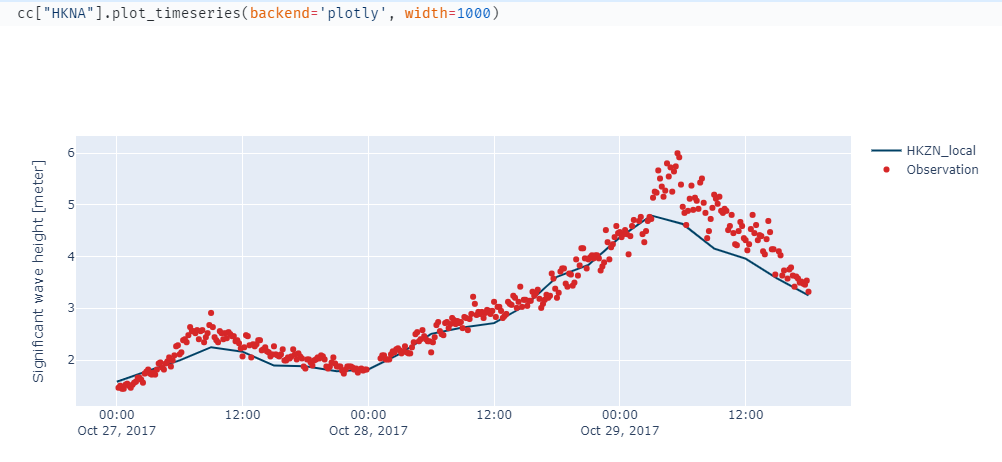
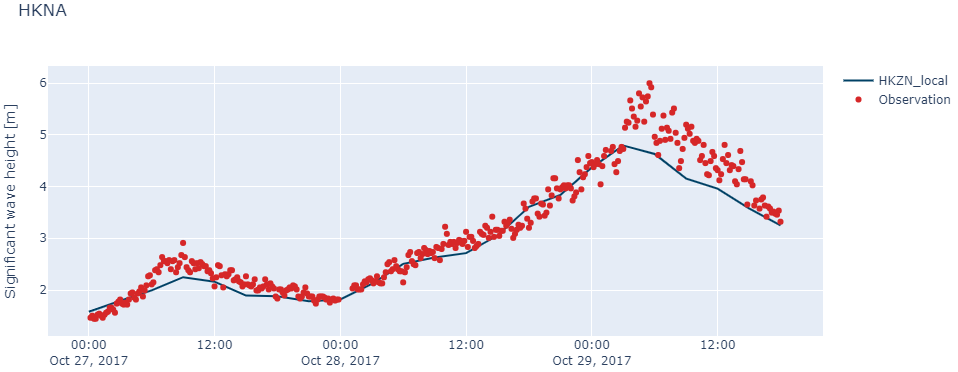
improved readme

diff --git a/README.md b/README.md
@@ -53,29 +53,51 @@ See examples of use in these notebooks
 2. Define **Observations**
 3. **Associate** observations with ModelResults
 4. **Extract** ModelResults at observation positions
-5. Do plotting, statistics, reporting using the **ComparerCollection**
+5. Do plotting, statistics, reporting using a **Comparer**
 
 
 ## Usage
 
+First, define model results and observations:
+
 ```python
 >>> from fmskill.model import ModelResult
->>> from fmskill.observation import PointObservation
->>> mr = ModelResult("Oresund2D.dfsu")
->>> klagshamn = PointObservation("smhi_2095_klagshamn.dfs0", item=0, x=366844, y=6154291, name="Klagshamn")
->>> drogden = PointObservation("dmi_30357_Drogden_Fyr.dfs0", item=0, x=355568, y=6156863)
->>> mr.add_observation(klagshamn, item=0)
->>> mr.add_observation(drogden, item=0)
+>>> from fmskill.observation import PointObservation, TrackObservation
+>>> mr = ModelResult("HKZN_local_2017_DutchCoast.dfsu", name="HKZN_local")
+>>> HKNA = PointObservation("HKNA_Hm0.dfs0", item=0, x=4.2420, y=52.6887, name="HKNA")
+>>> EPL = PointObservation("eur_Hm0.dfs0", item=0, x=3.2760, y=51.9990, name="EPL")
+>>> c2 = TrackObservation("Alti_c2_Dutch.dfs0", item=3, name="c2")
+```
+
+Then, associate observations with model results, and extract data at observation points:
+
+```python
+>>> mr.add_observation(HKNA, item=0)
+>>> mr.add_observation(EPL, item=0)
+>>> mr.add_observation(c2, item=0)
 >>> comparer = mr.extract()
->>> comparer.skill_df()
-                       bias  rmse  corr_coef  scatter_index
-Klagshamn              0.18  0.19       0.84           0.32
-dmi_30357_Drogden_Fyr  0.26  0.28       0.51           0.53
+```
+
+With the comparer, all sorts of skill assessments and plots can be made:
+
+```python
+>>> comparer.skill_df().round(2)
+               n  bias  rmse  urmse   mae    cc    si    r2
+observation                                                
+HKNA         385 -0.20  0.35   0.29  0.25  0.97  0.09  0.99
+EPL           66 -0.08  0.22   0.20  0.18  0.97  0.07  0.99
+c2           113 -0.00  0.35   0.35  0.29  0.97  0.12  0.99
 ```
 
 ### Overview of observation locations
 
+```python
+mr.plot_observation_positions(figsize=(7,7))
+```
+
 ![map](images/map.png)
+
+
 
 ### Scatter plot
 
@@ -89,7 +111,12 @@ comparer.scatter()
 
 Timeseries plots can either be static and report-friendly ([matplotlib](https://matplotlib.org/)) or interactive with zoom functionality ([plotly](https://plotly.com/python/)).
 
+```python
+cc["HKNA"].plot_timeseries(width=1000,backend="plotly")
+```
+
 ![timeseries](images/plotly_timeseries.png)
+
 
 ## Automated reporting
 
